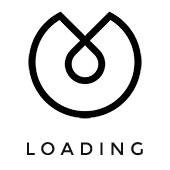
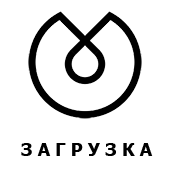
CSS fixed + loader image

Changed region(s): [[0.1176, 0.8235, 0.9118, 0.9412]]

diff --git a/media/default/javascripts/custom/navmenu-init.js b/media/default/javascripts/custom/navmenu-init.js
@@ -1,63 +1,60 @@
-
 // Mobile Navigation
 $('.mobile-toggle').click(function() {
-    if ($('.main-nav').hasClass('open-nav')) {
-        $('.main-nav').removeClass('open-nav');
-        $('.masthead').removeClass('revealed');
-        //$('.mobile-toggle span').removeClass('white-color');
-                    $('.sub-nav-holder').fadeOut('fast');
-                                $('.menu-panel').stop().animate({
-                                                    right: "3000px"
-                                                    }, 2000, function() {
-                                                    // Animation complete.
-                                                    });
+	if ($('.main-nav').hasClass('open-nav')) {
+		$('.main-nav').removeClass('open-nav');
+		$('.masthead').removeClass('revealed');
+		// $('.mobile-toggle span').removeClass('white-color');
+		$('.sub-nav-holder').fadeOut('fast');
+		$('.menu-panel').stop().animate({
+			right : "3000px"
+		}, 2000, function() {
+			// Animation complete.
+		});
 
-
-
-
-    } else {
-        //$('.mobile-toggle span').addClass('white-color');
-        $('.main-nav').addClass('open-nav');
-        $('.masthead').addClass('revealed');
-       $('.menu-panel').stop().animate({
-                                right: "50%"
-                                }, 1000, function() {
-                                // Animation complete.
-                                });
-    }
+	} else {
+		// $('.mobile-toggle span').addClass('white-color');
+		$('.main-nav').addClass('open-nav');
+		$('.masthead').addClass('revealed');
+		$('.menu-panel').stop().animate({
+			right : "50%"
+		}, 1000, function() {
+			// Animation complete.
+		});
+	}
 });
 
+$('.masthead, .mastwrap').click(function() {
+	$('.main-nav').removeClass('open-nav');
+	$('.masthead').removeClass('revealed');
+	// $('.mobile-toggle span').removeClass('white-color');
 
-$('.masthead, .mastwrap').click(function(){
-        $('.main-nav').removeClass('open-nav');
-        $('.masthead').removeClass('revealed');
-        //$('.mobile-toggle span').removeClass('white-color');
-            
-                $('.sub-nav-holder').fadeOut('fast');
-                                $('.menu-panel').stop().animate({
-                                                    right: "3000px"
-                                                    }, 2000, function() {
-                                                    // Animation complete.
-                                                    });
-
-
+	$('.sub-nav-holder').fadeOut('fast');
+	$('.menu-panel').stop().animate({
+		right : "3000px"
+	}, 2000, function() {
+		// Animation complete.
+	});
 })
 
-    //Navigation Sub Menu Triggering on hover
-    $('.trigger-sub-nav a').mouseenter(function(){
-        $('.sub-nav').hide();
-        $('.trigger-sub-nav a').removeClass('current-main-nav');
-        $(this).addClass('current-main-nav');
-        $('.sub-nav-holder').show();
-        var subnavIndex = $(this).attr('data-sub-nav-target');
-        $('.sub-nav-'+subnavIndex).show();
-    })
-    //Navigation Sub Menu Triggering on click
-    $('.trigger-sub-nav a').click(function(){
-        $('.sub-nav').hide();
-        $('.trigger-sub-nav a').removeClass('current-main-nav');
-        $(this).addClass('current-main-nav');
-        $('.sub-nav-holder').show();
-        var subnavIndex = $(this).attr('data-sub-nav-target');
-        $('.sub-nav-'+subnavIndex).show();
-    })
+// Navigation Sub Menu Triggering on hover
+$('.trigger-sub-nav a').mouseenter(function() {
+	$('.sub-nav-holder').hide();
+	$('.sub-nav').hide();
+	$('.trigger-sub-nav a').removeClass('current-main-nav');
+	$(this).addClass('current-main-nav');
+	
+	if ($(this).data('has-childrens')) {
+		$('.sub-nav-holder').show();
+		var subnavIndex = $(this).attr('data-sub-nav-target');
+		$('.sub-nav-' + subnavIndex).show();
+	}
+})
+// Navigation Sub Menu Triggering on click
+$('.trigger-sub-nav a').click(function() {
+	$('.sub-nav').hide();
+	$('.trigger-sub-nav a').removeClass('current-main-nav');
+	$(this).addClass('current-main-nav');
+	$('.sub-nav-holder').show();
+	var subnavIndex = $(this).attr('data-sub-nav-target');
+	$('.sub-nav-' + subnavIndex).show();
+})

diff --git a/media/default/javascripts/custom/main.js b/media/default/javascripts/custom/main.js
@@ -1,59 +1,33 @@
-// MAIN.JS
-//--------------------------------------------------------------------------------------------------------------------------------
-//This is main JS file that contains custom JS scipts and initialization used in this template*/
-// -------------------------------------------------------------------------------------------------------------------------------
-// Template Name: EIGHT.
-// Author: Designova.
-// Version 1.0 - Initial Release
-// Website: http://www.Designova.net 
-// Copyright: (C) 2015 
-// -------------------------------------------------------------------------------------------------------------------------------
+(function() {
+	"use strict";
 
-/*global $:false */
-/*global window: false */
-
-(function(){
-  "use strict";
-
-
-$(function ($) {
-
-     
-    //Detecting viewpot dimension
-     var vH = $(window).height();
-     var vW = $(window).width();
-
-
-     //Adjusting Intro Components Spacing based on detected screen resolution
-     $('.fullheight').css('height',vH);
-     $('.halfheight').css('height',vH/2);
-     $('.fullwidth').css('width',vW);
-     $('.halfwidth').css('width',vW/2);
-  
-    $('.page-fold.subtle').next().css('margin-top',vH);
-
-    //Mobile Menu (multi level)
-    $('ul.slimmenu').slimmenu({
-        resizeWidth: '1200',
-        collapserTitle: 'menu',
-        easingEffect:'easeInOutQuint',
-        animSpeed:'medium',
-    });
-
-
-
-
-});
-// $(function ($)  : ends
-
+	$(function($) {
+		function setSize() {
+			// Detecting viewpot dimension
+			var vH = $(window).height();
+			var vW = $(window).width();
+			
+			// Adjusting Intro Components Spacing based on detected screen
+			// resolution
+			$('.fullheight').css('height', vH);
+			$('.halfheight').css('height', vH / 2);
+			$('.fullwidth').css('width', vW);
+			$('.halfwidth').css('width', vW / 2);
+			
+			$('.page-fold.subtle').next().css('margin-top', vH);
+		};
+			
+		setSize();
+		$(window).resize(setSize);
+			
+			
+		// Mobile Menu (multi level)
+		$('ul.slimmenu').slimmenu({
+			resizeWidth : '1200',
+			collapserTitle : 'menu',
+			easingEffect : 'easeInOutQuint',
+			animSpeed : 'medium',
+		});
+	});
 })();
-//  JSHint wrapper $(function ($)  : ends
-
-
-
-
-
-
-
-  
 

diff --git a/media/default/stylesheets/main.css b/media/default/stylesheets/main.css
@@ -592,7 +592,6 @@ filter: progid:DXImageTransform.Microsoft.BasicImage(rotation=3);
                     transition: all .4s ease-in-out;
         }
         .info a:hover{
-            cursor: url("../images/plus.png") 40 40, crosshair;
             -webkit-transition: all .4s ease-in-out;
                -moz-transition: all .4s ease-in-out;
                 -ms-transition: all .4s ease-in-out;
@@ -600,7 +599,6 @@ filter: progid:DXImageTransform.Microsoft.BasicImage(rotation=3);
                     transition: all .4s ease-in-out;
         }
         .zoom a:hover{
-            cursor: url("../images/zoom.png") 40 40, crosshair;
             -webkit-transition: all .4s ease-in-out;
                -moz-transition: all .4s ease-in-out;
                 -ms-transition: all .4s ease-in-out;

diff --git a/media/default/stylesheets/showcase05.css b/media/default/stylesheets/showcase05.css
@@ -1,7 +1,6 @@
 
 /*showcase05*/
 .showcase05-carousel{
-	cursor: url("../images/drag.png") 40 40, crosshair;
     -webkit-transition: all .4s ease-in-out;
        -moz-transition: all .4s ease-in-out;
         -ms-transition: all .4s ease-in-out;
@@ -31,7 +30,6 @@
 			transition: all 1s ease-in-out;
 }
 .showcase05-overlay a{
-	cursor: url("../images/view.png") 40 40, crosshair;
     -webkit-transition: all .4s ease-in-out;
        -moz-transition: all .4s ease-in-out;
         -ms-transition: all .4s ease-in-out;

diff --git a/media/default/stylesheets/showcase02.css b/media/default/stylesheets/showcase02.css
@@ -61,7 +61,6 @@
 
 .ms-overlay a{
     display: block;
-            cursor: url("../images/plus.png") 40 40, crosshair;
             -webkit-transition: all .4s ease-in-out;
                -moz-transition: all .4s ease-in-out;
                 -ms-transition: all .4s ease-in-out;

diff --git a/media/default/stylesheets/showcase03.css b/media/default/stylesheets/showcase03.css
@@ -3,7 +3,6 @@
 .showcase-03 .parallax-showcase-layer a{
     padding-left: 10%;
     padding-right: 10%;
-            cursor: url("../images/plus.png") 40 40, crosshair;
     height: 100%;
     width: 100%;
     display: block;

diff --git a/application/views/themes/default/layout/menu/top.php b/application/views/themes/default/layout/menu/top.php
@@ -15,12 +15,7 @@
 						foreach ($menu as $_id => $_item) {
 							$_key = str_pad($_id, 2, '0', STR_PAD_LEFT);
 							
-							echo '<li class="trigger-sub-nav">', HTML::anchor($_item['uri'], $_item['title'], array(
-								'target' => $_item['target'],
-								'class' => 'main-nav-link white',
-								'data-sub-nav-target' => $_key
-							)), '</li>';
-							
+							$_has_childrens = FALSE;
 							if ( ! empty($_item['sub'])) {
 								$_str = '<div class="sub-nav sub-nav-'.$_key.'">';
 								foreach ($_item['sub'] as $_k => $_v) {
@@ -29,7 +24,16 @@
 									));
 								}
 								$_str .= '</div>';
+								$_has_childrens = TRUE;
 							}
+							
+							echo '<li class="trigger-sub-nav">', HTML::anchor($_item['uri'], $_item['title'], array(
+								'target' => $_item['target'],
+								'class' => 'main-nav-link white',
+								'data-sub-nav-target' => $_key,
+								'data-has-childrens' => $_has_childrens
+							)), '</li>';
+							
 						}
 ?>						
 						</ul>

diff --git a/application/views/themes/default/layout/template.php b/application/views/themes/default/layout/template.php
@@ -62,19 +62,6 @@
 			<div class="container">
 				<div class="row">
 					<article class="col-md-12 text-center">
-						<a href="<?php echo URL::base(); ?>">
-<?php
-							echo HTML::image($MEDIA.'images/logo.png', array(
-								'title' => $SITE['name'],
-								'alt' => $SITE['name'],
-								'class' => 'img-responsive foot-logo',
-							));
-?>						
-						</a>
-					</article>
-				</div>
-				<div class="row">
-					<article class="col-md-12 text-center">
 						<div class="inner-spacer color-bg"></div>
 <?php
 						echo View_Theme::factory('layout/footer/social');

diff --git a/application/classes/controller/page.php b/application/classes/controller/page.php
@@ -30,6 +30,8 @@ class Controller_Page extends Controller_Front {
 		$this->title = $orm->title;
 		$this->template
 			->set('page', $orm);
+		
+		$this->switch_on_plugin('parallax');
 	}
 
 	public function action_page()
